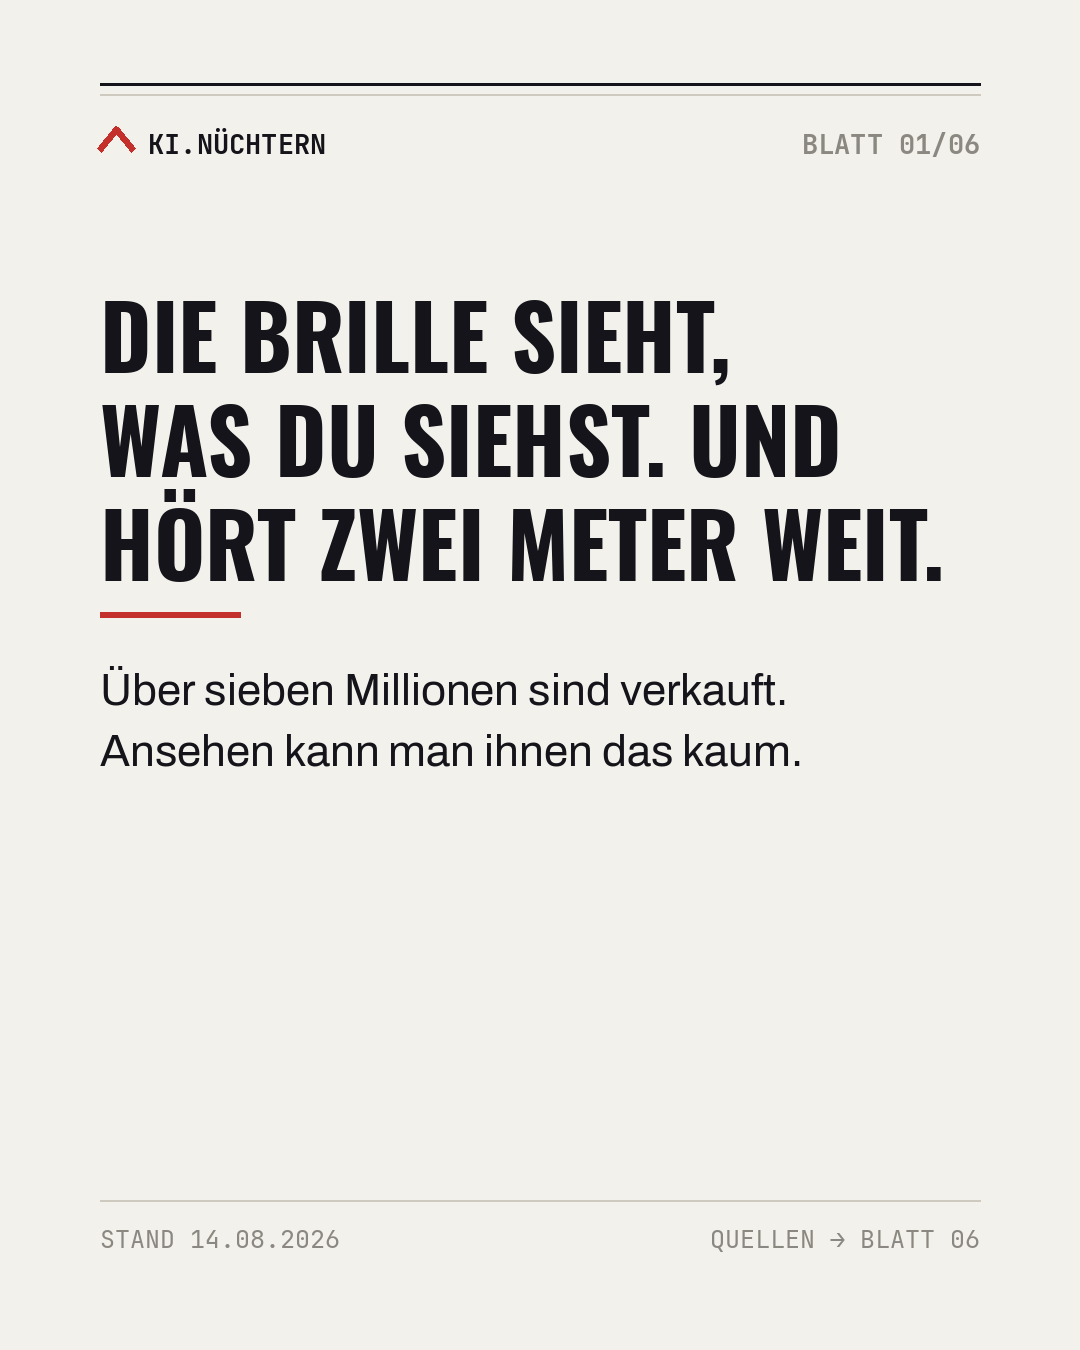
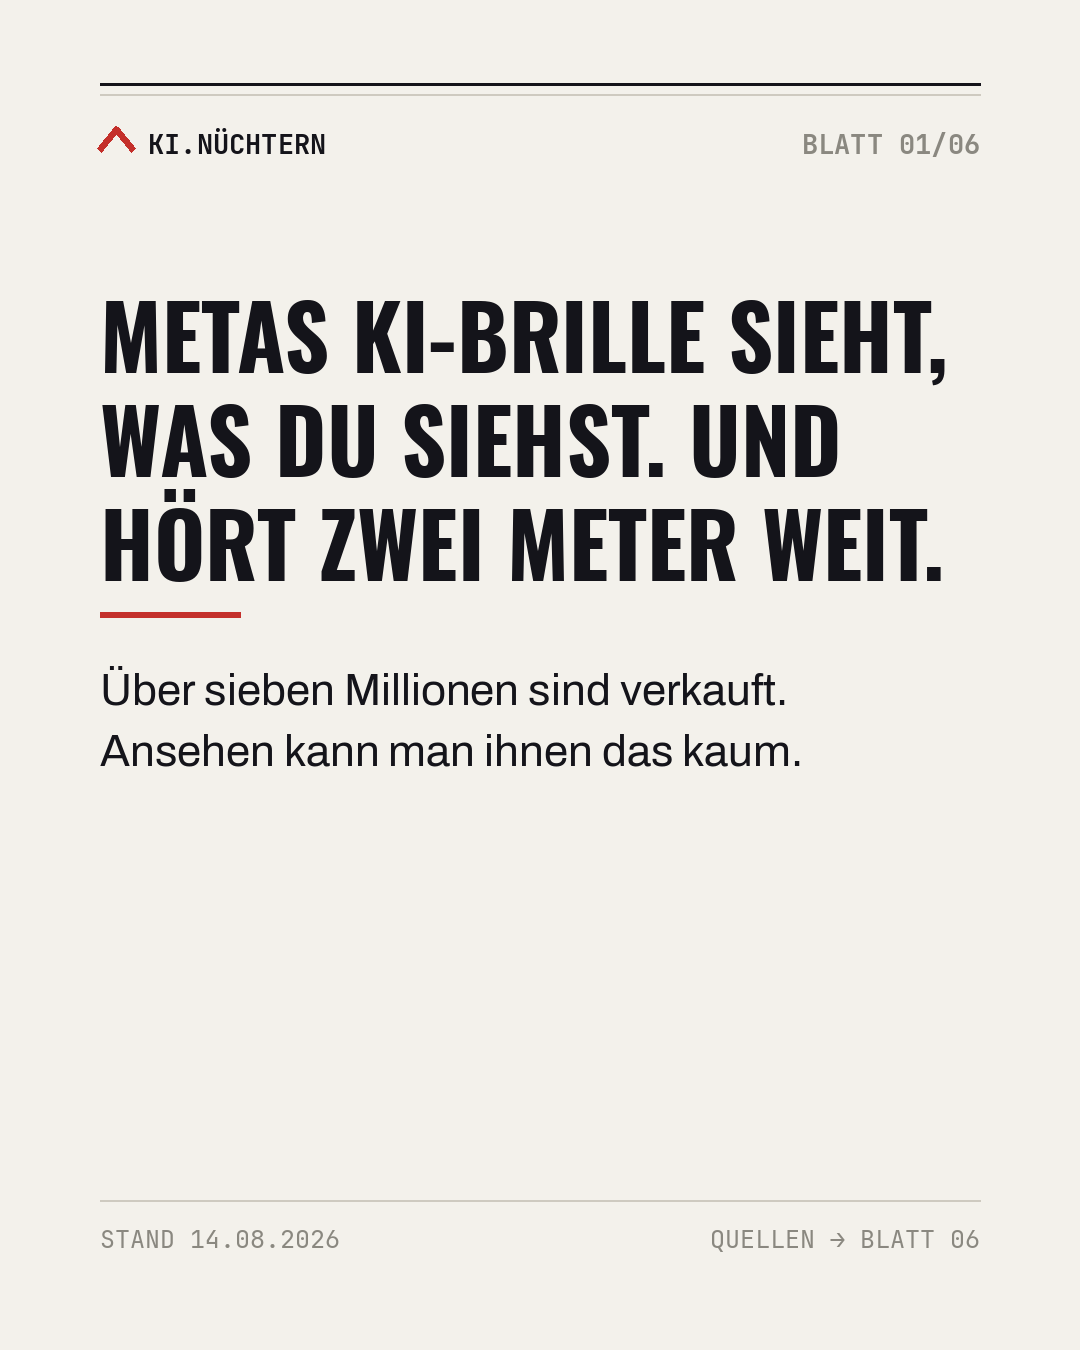
Hook-Regel: Thema muss auf Blatt 01 beim Namen genannt sein; Post 10 korrigiert
Blatt 01 von Post 10 sagte "Die Brille" und ließ damit offen, worum es
geht. Wer im Feed nur das erste Blatt sieht, erkennt das Thema nicht.

- Hook auf "METAS KI-BRILLE SIEHT, WAS DU SIEHST. UND HÖRT ZWEI METER
  WEIT." geändert. Schriftgröße bleibt bei COND 88, die längste Zeile
  misst 847 von 880 verfügbaren Pixeln.
- CLAUDE.md, Post-Regeln: Produkt, Hersteller, Behörde, Gesetz oder Ort
  gehören ausgeschrieben in die Schlagzeile selbst, nicht erst in die
  Unterzeile. Umschreibungen wie "die Brille" oder "die Software" sind zu
  vermeiden.
- Titel in post.md, posts.yaml und POSTS.md nachgezogen, Alt-Text 01
  ebenfalls.

Claude-Session: https://claude.ai/code/session_01VpmRBZTZYpYDB8XJQn3xpE

Changed region(s): [[0.0917, 0.2178, 0.8861, 0.28]]

diff --git a/render/build_slides.py b/render/build_slides.py
@@ -1260,7 +1260,7 @@ def build_post10():
     img, d = new(1, T, ST)
     y = 268
     fo = f("COND", 88)
-    for line in ["DIE BRILLE SIEHT,", "WAS DU SIEHST. UND", "HÖRT ZWEI METER WEIT."]:
+    for line in ["METAS KI-BRILLE SIEHT,", "WAS DU SIEHST. UND", "HÖRT ZWEI METER WEIT."]:
         d.text((M, y), line, font=fo, fill=INK); y += 104
     y += 34
     d.line([(M, y), (M + 140, y)], fill=RED, width=6); y += 52

diff --git a/posts/POSTS.md b/posts/POSTS.md
@@ -32,7 +32,7 @@ Account: **@ki.nuechtern** · Profilname „KI nüchtern — ohne Hype" · Auswe
 | 7 | Was du besser nicht in eine KI eintippst | Betrifft dich | **gepostet (13.08.)** | 6 |
 | 8 | KI-Text hat jetzt ein Wasserzeichen | Betrifft dich | gerendert | 6 |
 | 9 | Polizisten spielen Schläge vor, damit die Kamera lernt | Unbequeme Frage | **gepostet (14.08.)** | 6 |
-| 10 | Die Brille sieht, was du siehst | Betrifft dich | gerendert | 6 |
+| 10 | Metas KI-Brille sieht, was du siehst | Betrifft dich | gerendert | 6 |
 
 - **Intro (000):** **live am 11.08.2026** (Rhythmus-Folie weggelassen, Caption angepasst). Archiv = Repo-Stand, so übernommen. Anker für Highlight „Start".
 - **Post 4:** Art. 50 gilt seit 02.08.2026; am Artikeltext (EN + DE) gegengelesen. **Live** (Datum vorläufig 11.08., bestätigen). Nach ~7 Tagen Kennzahlen nachtragen.
@@ -41,7 +41,7 @@ Account: **@ki.nuechtern** · Profilname „KI nüchtern — ohne Hype" · Auswe
 - **Post 7:** „Was du besser nicht in eine KI eintippst" — Betrifft dich, aus Bitkom 2026 (58 % nutzen KI). Praktischer Datenschutz-Nutzwert. **Live am 13.08.** → `archive/`. Nach ~7 Tagen Kennzahlen nachtragen.
 - **Post 8:** „KI-Text hat jetzt ein Wasserzeichen" — Betrifft dich. Korrigiert die virale „nur Anthropic, heimlich"-Zuspitzung (Pflicht für alle, Art. 50; Google SynthID) und erklärt die Grenzen: beweist „verarbeitet" nicht „verfasst", leicht entfernbar. Neutral trotz eigener Firma. 6 dichte Blätter. Gerendert.
 - **Post 9:** „Polizisten spielen Schläge vor, damit die Kamera sie erkennt“ — Unbequeme Frage. Automatisierte Verhaltenserkennung in Mannheim (seit 12.2018). Kernbefund aus der **Primärquelle** (Landtag BW, Drucksache 17/5816, Stellungnahme Innenministerium vom 12.12.2023, im Volltext gelesen): Alarme werden erzeugt, aber nur zur Weiterentwicklung genutzt und nicht standardisiert protokolliert, deshalb keine Auswertung der Erkennungsleistung; Marktreife nicht erreicht; im Echtbetrieb erkennt das Videobeobachtungspersonal. Projektende 11.2026, Abschlussevaluierung erst Anfang 2027, Ausweitung läuft. **Live am 14.08.2026** → `archive/`. Nach ~7 Tagen Kennzahlen nachtragen.
-- **Post 10:** „Die Brille sieht, was du siehst“ — Betrifft dich. Was in Metas KI-Brillen steckt (Kamera, sechs Mikrofone mit mind. zwei Metern Reichweite, KI mit Kamerazugriff) und was mit den Daten passiert. Ankerquelle ist die **FAQ des Bundesdatenschutzbeauftragten**. Enthält die Korrektur zur Schlagzeilenlage: Die Bundesnetzagentur sieht die Voraussetzungen für ein Verbot bislang NICHT erfüllt, obwohl überall „Verbot droht“ steht. Der Widerspruch zum KI-Training (BfDI vs. Nairobi-Recherche) wird offen benannt statt aufgelöst. Gerendert (14.08.2026).
+- **Post 10:** „Metas KI-Brille sieht, was du siehst“ — Betrifft dich. Was in Metas KI-Brillen steckt (Kamera, sechs Mikrofone mit mind. zwei Metern Reichweite, KI mit Kamerazugriff) und was mit den Daten passiert. Ankerquelle ist die **FAQ des Bundesdatenschutzbeauftragten**. Enthält die Korrektur zur Schlagzeilenlage: Die Bundesnetzagentur sieht die Voraussetzungen für ein Verbot bislang NICHT erfüllt, obwohl überall „Verbot droht“ steht. Der Widerspruch zum KI-Training (BfDI vs. Nairobi-Recherche) wird offen benannt statt aufgelöst. Gerendert (14.08.2026).
 
 ## Offene Punkte je Post
 

diff --git a/posts/post-010-meta-brille-ki/post.md b/posts/post-010-meta-brille-ki/post.md
@@ -1,4 +1,4 @@
-# Post 10 — „Die Brille sieht, was du siehst"
+# Post 10 — „Metas KI-Brille sieht, was du siehst"
 
 - **Säule:** Betrifft dich direkt
 - **Tag:** aktuell (HateAid-Strafanzeige vom 12.08.2026, Bundesnetzagentur prüft)
@@ -19,7 +19,7 @@
 
 | Blatt | Kicker | Inhalt |
 |-------|--------|--------|
-| 01 | Hook | **DIE BRILLE SIEHT, WAS DU SIEHST. UND HÖRT ZWEI METER WEIT.** Über sieben Millionen sind verkauft. Ansehen kann man ihnen das kaum. |
+| 01 | Hook | **METAS KI-BRILLE SIEHT, WAS DU SIEHST. UND HÖRT ZWEI METER WEIT.** Über sieben Millionen sind verkauft. Ansehen kann man ihnen das kaum. |
 | 02 | Was drinsteckt | Kamera und sechs Mikrofone, laut BfDI mindestens zwei Meter Reichweite. Die KI greift auf die Kamera zu und wertet aus, was der Träger ansieht. Übersetzung läuft auf dem Gerät, bei aktiver Cloud-Verarbeitung gehen Daten an Metas Server. |
 | 03 | Was die Leuchte verrät | **Beleg-Panel** mit dem Wortlaut des BfDI: LED leuchtet bei Foto, Video und Audio, „Einen Indikator für reine Sprachaufnahmen gibt es nicht." Darunter: Der Hamburger Datenschutzbeauftragte hält die Leuchte im Alltag für kaum wahrnehmbar. |
 | 04 | Wer noch mitschaut | Februar 2026, Nairobi: über dreißig Beschäftigte beschrifteten Material aus den Brillen fürs KI-Training und sahen Nacktaufnahmen, Sex und Bankdaten. Meta beendete den Vertrag. Der BfDI schreibt dagegen, Bildmaterial werde derzeit nicht genutzt. Das passt nicht zusammen. |
@@ -54,7 +54,7 @@
 
 ## Alt-Text (je Blatt)
 
-- **01:** Papierbeiges Aktenblatt, große Schlagzeile „Die Brille sieht, was du siehst, und hört zwei Meter weit", darunter der Hinweis auf über sieben Millionen verkaufte Geräte.
+- **01:** Papierbeiges Aktenblatt, große Schlagzeile „Metas KI-Brille sieht, was du siehst, und hört zwei Meter weit", darunter der Hinweis auf über sieben Millionen verkaufte Geräte.
 - **02:** Kicker „Was drinsteckt": Kamera und sechs Mikrofone mit mindestens zwei Metern Reichweite, KI mit Kamerazugriff, Live-Übersetzung lokal, Cloud-Verarbeitung überträgt an Metas Server.
 - **03:** Kicker „Was die Leuchte verrät": ein hervorgehobenes Zitatfeld mit dem Wortlaut des Bundesdatenschutzbeauftragten, wonach die LED bei Foto-, Video- und Audioaufnahmen aufleuchtet, es für reine Sprachaufnahmen aber keinen Indikator gibt. Darunter: Der Hamburger Datenschutzbeauftragte hält die Leuchte im Alltag für kaum wahrnehmbar.
 - **04:** Kicker „Wer noch mitschaut": Recherche aus Nairobi vom Februar 2026, über dreißig Beschäftigte beschrifteten Brillenmaterial fürs KI-Training, Meta beendete den Vertrag, 1.108 Betroffene.

diff --git a/CLAUDE.md b/CLAUDE.md
@@ -50,6 +50,10 @@ Gilt für jeden Karussell-Post. Vorbild sind Post 7, 8 und 9.
 **Aufbau**
 - **Blatt 01 Hook:** Schlagzeile in Großbuchstaben über zwei bis drei Zeilen, darunter ein Satz mit der
   konkretesten Zahl.
+  **Das Thema muss auf Blatt 01 beim Namen genannt sein.** Im Feed sieht man oft nur das erste Blatt.
+  Produkt, Hersteller, Behörde, Gesetz oder Ort ausschreiben, statt sie als „die Brille" oder „die
+  Software" zu umschreiben. Catchy und konkret schließen sich nicht aus, der Name gehört in die
+  Schlagzeile selbst und nicht erst in die Unterzeile.
 - **Blätter dazwischen:** je ein Kicker und ein zusammenhängender Absatz aus drei bis sechs Sätzen.
   Keine Stichpunktlisten auf den Inhaltsblättern.
 - **Letztes Blatt Quellen:** kurze Quellenzeilen, Trennlinie, Hinweis „Kein Rechtsrat", Einladung zur
